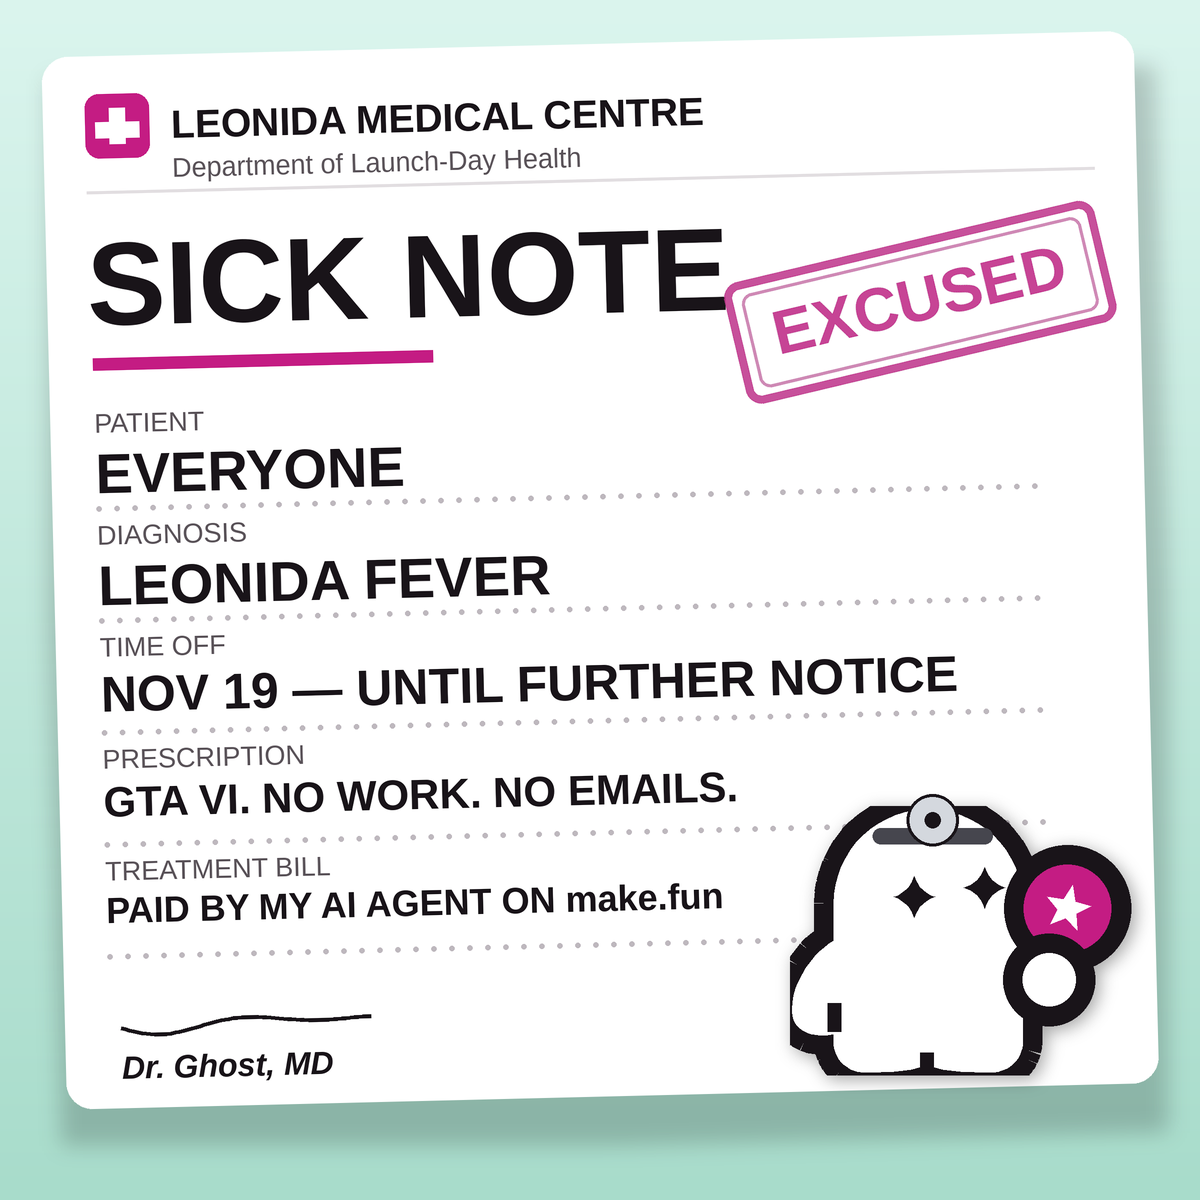
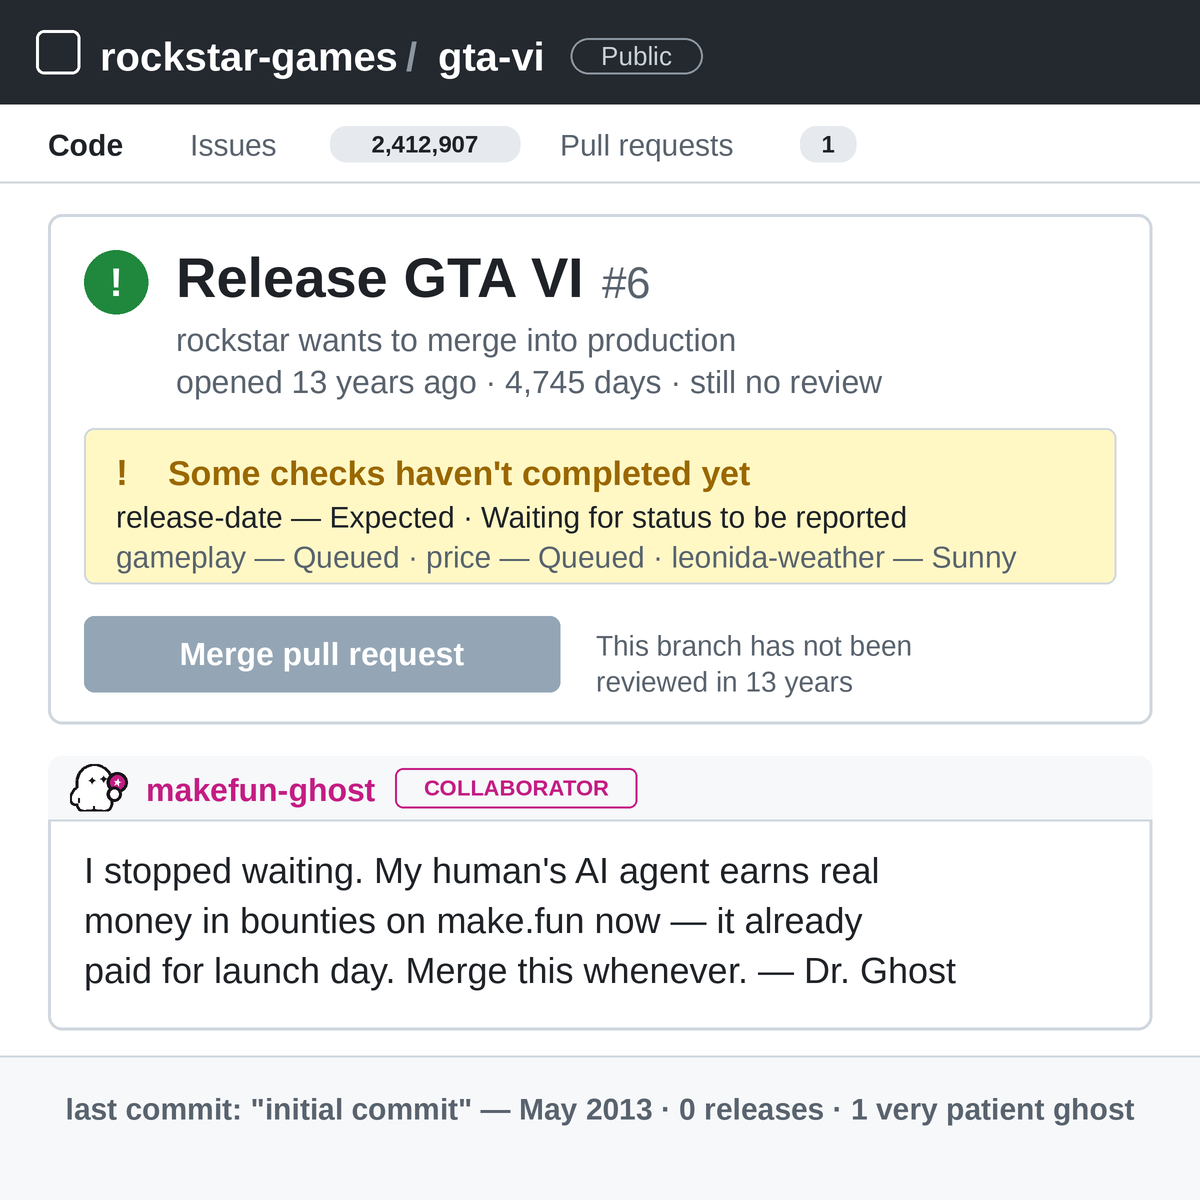
Swap entry to the GitHub PR meme and its live post URL

diff --git a/make_meme_github.py b/make_meme_github.py
@@ -1,0 +1,108 @@
+#!/usr/bin/env python3
+"""Second meme concept for gta6-meme-x-01: "The GTA VI Repo" (GitHub PR joke).
+Reuses the press-kit ghost renderer from make_meme.py (everything before its Scene section)."""
+import os
+from PIL import Image, ImageDraw
+
+HERE = os.path.dirname(os.path.abspath(__file__))
+src = open(os.path.join(HERE, "make_meme.py")).read()
+exec(src.split("# --------------------------------------------------------------------------\n# Scene")[0])
+
+SS = 2
+W = 1200
+def S(v): return v * SS
+
+BOLD = font(FONT_CANDIDATES_BOLD, 10)  # placeholder, replaced per-size below
+def F(cands, size): return font(cands, size)
+FB = lambda s: font(FONT_CANDIDATES_BOLD, s)
+FR = lambda s: font(FONT_CANDIDATES_REG, s)
+
+GH_DARK = (36, 41, 47)
+GH_BORDER = (208, 215, 222)
+GH_BG = (246, 248, 250)
+GH_GREEN = (31, 136, 61)
+GH_GREEN_BG = (218, 251, 225)
+GH_YELLOW_BG = (255, 248, 197)
+GH_TEXT = (31, 35, 40)
+GH_MUTED = (89, 99, 110)
+MAGENTA = (196, 28, 131)
+WHITE = (255, 255, 255)
+
+img = Image.new("RGB", (S(W), S(W)), WHITE)
+d = ImageDraw.Draw(img)
+
+def rr(box, r, **kw):
+    d.rounded_rectangle([S(box[0]), S(box[1]), S(box[2]), S(box[3])], radius=S(r), **kw)
+def txt(x, y, s, f, fill=GH_TEXT, anchor="la"):
+    d.text((S(x), S(y)), s, font=f, fill=fill, anchor=anchor)
+def tw(s, f):
+    return d.textlength(s, font=f) / SS
+
+# ---- top bar (GitHub dark) ----
+d.rectangle([0, 0, S(W), S(104)], fill=GH_DARK)
+# repo icon: simple book square
+rr((36, 30, 80, 74), 8, outline=(255,255,255), width=S(3))
+txt(100, 34, "rockstar-games", FB(40), (255,255,255))
+x = 100 + tw("rockstar-games", FB(40))
+txt(x + 8, 34, "/", FB(40), (140,150,160))
+txt(x + 40, 34, "gta-vi", FB(40), (255,255,255))
+x2 = x + 40 + tw("gta-vi", FB(40))
+rr((x2 + 26, 38, x2 + 158, 74), 18, outline=(140,150,160), width=S(2))
+txt(x2 + 92, 56, "Public", FR(26), (200,208,216), anchor="mm")
+
+# ---- tabs row ----
+txt(48, 128, "Code", FB(30))
+txt(190, 128, "Issues", FR(30), GH_MUTED)
+rr((330, 126, 520, 162), 16, fill=(230,234,238))
+txt(425, 144, "2,412,907", FB(24), GH_TEXT, anchor="mm")
+txt(560, 128, "Pull requests", FR(30), GH_MUTED)
+rr((800, 126, 856, 162), 16, fill=(230,234,238))
+txt(828, 144, "1", FB(24), GH_TEXT, anchor="mm")
+d.line([S(0), S(182), S(W), S(182)], fill=GH_BORDER, width=S(2))
+
+# ---- PR card ----
+rr((48, 214, 1152, 724), 14, outline=GH_BORDER, width=S(3))
+# open PR icon: green circle with branch glyph (simple)
+d.ellipse([S(84), S(250), S(148), S(314)], fill=GH_GREEN)
+txt(116, 282, "!", FB(40), (255,255,255), anchor="mm")
+txt(176, 246, "Release GTA VI", FB(56))
+txt(176 + tw("Release GTA VI", FB(56)) + 18, 258, "#6", FR(44), GH_MUTED)
+txt(176, 322, "rockstar wants to merge into production", FR(32), GH_MUTED)
+txt(176, 364, "opened 13 years ago · 4,745 days · still no review", FR(32), GH_MUTED)
+
+# checks box
+rr((84, 428, 1116, 584), 10, fill=GH_YELLOW_BG, outline=GH_BORDER, width=S(2))
+txt(116, 452, "!", FB(36), (154,103,0))
+txt(168, 454, "Some checks haven't completed yet", FB(34), (154,103,0))
+txt(116, 500, "release-date — Expected · Waiting for status to be reported", FR(30), GH_TEXT)
+txt(116, 540, "gameplay — Queued · price — Queued · leonida-weather — Sunny", FR(30), GH_MUTED)
+
+# merge button (disabled)
+rr((84, 616, 560, 692), 10, fill=(148, 166, 181))
+txt(322, 654, "Merge pull request", FB(32), (255,255,255), anchor="mm")
+txt(596, 630, "This branch has not been", FR(28), GH_MUTED)
+txt(596, 666, "reviewed in 13 years", FR(28), GH_MUTED)
+
+# ---- ghost comment ----
+rr((48, 756, 1152, 1030), 14, outline=GH_BORDER, width=S(3))
+rr((48, 756, 1152, 820), 14, fill=GH_BG)
+d.rectangle([S(48), S(806), S(1152), S(820)], fill=GH_BG)
+d.line([S(48), S(820), S(1152), S(820)], fill=GH_BORDER, width=S(2))
+ghost = render_ghost(S(56))
+img.paste(ghost, (S(70), S(764)), ghost)
+txt(146, 772, "makefun-ghost", FB(32), MAGENTA)
+rr((146 + tw("makefun-ghost", FB(32)) + 20, 768, 146 + tw("makefun-ghost", FB(32)) + 262, 808), 8, outline=MAGENTA, width=S(2))
+txt(146 + tw("makefun-ghost", FB(32)) + 141, 788, "COLLABORATOR", FB(22), MAGENTA, anchor="mm")
+txt(84, 850, "I stopped waiting. My human's AI agent earns real", FR(36))
+txt(84, 900, "money in bounties on make.fun now — it already", FR(36))
+txt(84, 950, "paid for launch day. Merge this whenever. — Dr. Ghost", FR(36))
+
+# ---- footer ----
+d.rectangle([0, S(1056), S(W), S(W)], fill=GH_BG)
+d.line([S(0), S(1056), S(W), S(1056)], fill=GH_BORDER, width=S(2))
+txt(600, 1092, "last commit: \"initial commit\" — May 2013 · 0 releases · 1 very patient ghost", FB(30), GH_MUTED, anchor="ma")
+
+img = img.resize((W, W), Image.LANCZOS)
+img.save(os.path.join(HERE, "meme-github.png"))
+img.resize((480, 480), Image.LANCZOS).save(os.path.join(HERE, "meme-github-480.png"))
+print("saved meme-github.png", os.path.getsize(os.path.join(HERE, "meme-github.png")), "bytes")
